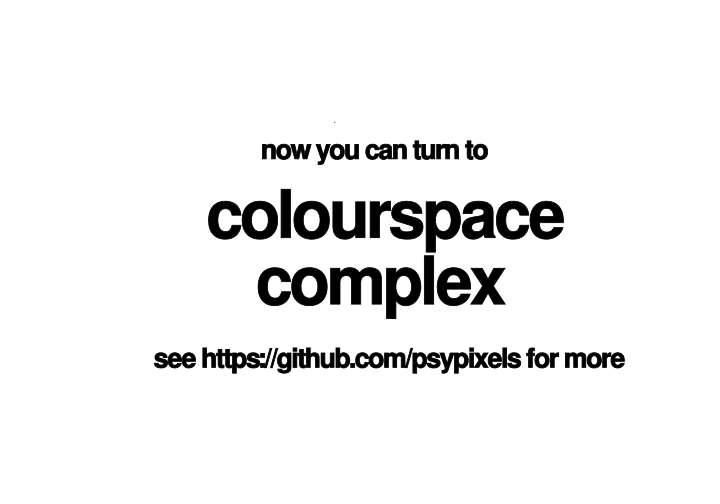
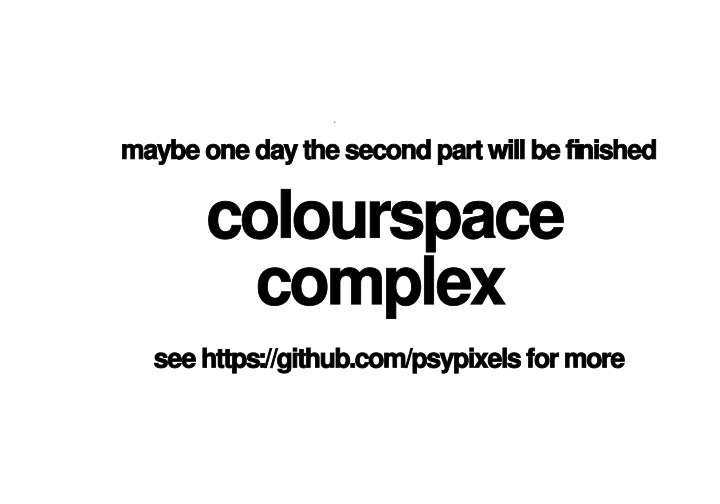
Abandon the last chapter - we're done for now

Changed region(s): [[0.1528, 0.2679, 0.9167, 0.3274]]

diff --git a/src/aftereffects.tex b/src/aftereffects.tex
@@ -286,9 +286,11 @@ This translates into the routine painting the pattern as follows.
   }
 \end{figure}
 
+As before, once the lines is ready to be processed the heavy lifting passes to \icode{PaintPixel\-ForCurrentSymmetry}.
+
 \clearpage
 \textbf{Lines 1189-1231. \icode{\textbf{PaintPixelForCurrentSymmetry}}} 
-\begin{lstlisting}[basicstyle=\ttfamily\scriptsize, caption=The routine responsible for painting patterns.]
+\begin{lstlisting}
 ;--------------------------------------------------------
 ; PaintPixelForCurrentSymmetry
 ;--------------------------------------------------------
@@ -327,22 +329,6 @@ CanPaintPixelOnThisLine
 ReturnFromSymmetry   
         RTS 
 
-\end{lstlisting}
-\clearpage
-
-\rhead[]{\icode{LaunchPsychedelia}}
-\textbf{Lines 1189-1231. \icode{\textbf{LaunchPsychedelia}}:} A nice compact launch routine compared to what we're used to. As an added
-bonus it also contains the game's main loop in \icode{PsychedeliaLoop}! The first thing to note here is that, unlike all the previous
-versions we've looked at, this main loop is also checking keyboard input - something previously managed by the interrupt handler. The
-interrupt handler, as well as animating the background, still looks after joystick input but the reduced set of keyboard commands and
-the increased load on the interrupt handler, means that we can fit the keyboard check in here instead.
-
-\textbf{Lines 1189-1231. \icode{\textbf{MaybeUpdateFromBuffersAndPaint}}:} The business end of the main loop which co-ordinates all pattern
-painting.
-
-\clearpage
-\textbf{Lines 1189-1231. \icode{\textbf{PaintPixelForCurrentSymmetry} continued.}} 
-\begin{lstlisting}[caption = All the pattern data structures in Psychedelia organized into a set of arrays.]
 HasSymmetry   
         CMP #X_Y_SYMMETRY
         BEQ HasXYSymmetry
@@ -354,6 +340,11 @@ HasSymmetry
         SEC 
         SBC initialPixelXPosition
         STA initialPixelXPosition
+
+\end{lstlisting}
+\clearpage
+\textbf{Lines 1189-1231. \icode{\textbf{PaintPixelForCurrentSymmetry} continued.}} 
+\begin{lstlisting}[caption = The routine responsible for handling the symmetry in use for painting pixels.]
 
         JSR PaintPixel
 
@@ -390,11 +381,15 @@ HasXAxisSymmetry
         STA initialPixelXPosition
         JMP HasXYSymmetry
 \end{lstlisting}
+
+\rhead[]{\icode{PaintPixelForCurrentSymmetry}}
+\textbf{Lines 1189-1231. \icode{\textbf{PaintPixelForCurrentSymmetry}}:} This routine feels like an improvement on
+previous iterations. It makes heavy use of 'early returns' (\icode{CleanUpAndReturn}) and the way in which it is
+determining what symmetry is in effect and how to decompose that into the painting of individual pixels is much more
+legible to the reader than in earlier versions of the routine in Psychedelia and the 'listing edition' of Psychedelia.
+
 \clearpage
 
-\rhead[]{\icode{LaunchPsychedelia}}
-\textbf{Lines 1189-1231. \icode{\textbf{LaunchPsychedelia}}:} Psychedelia
-\clearpage
 \textbf{Lines 1189-1231. \icode{\textbf{PaintPixel}}} 
 \begin{lstlisting}[caption = All the pattern data structures in Psychedelia organized into a set of arrays.]
 ;--------------------------------------------------------
@@ -434,14 +429,28 @@ colorComparisonArray
 \end{lstlisting}
 \clearpage
 
-\rhead[]{\icode{LaunchPsychedelia}}
-\textbf{Lines 1189-1231. \icode{\textbf{LaunchPsychedelia}}:} Psychedelia
-\clearpage
+\rhead[]{\icode{PaintPixel}}
+\textbf{Lines 1189-1231. \icode{\textbf{PaintPixel}}:} This is much less cryptic than previous versions of this routine. The first part
+simply figures out if the current location chosen for drawing is the same as the current background color (\icode{currentColorValue}) - if so,
+we paint it.
+
+Otherwise, we check the current color at the chosen location against the \icode{color\-ComparisonArray} using the color value itself as an index.
+If it's greater or equal we paint our new chose color there.
+
+\section*{\string^ \string^ \string^ \string^ \string^ transmission interrupted}
+\vspace{-0.3cm}
+OK I've had enough for now, and let's face it so have you. There's a second part to this book yet to be completed: a similar 'mirror' exploration
+of Jeff Minter's second adventure in light synthesizers: 'Colourspace' for the Atari 800. The dismembered parts of this second volume are available
+to preview by clicking the link below (or by visiting \href{https://github.com/mwenge/psypixels}{\textcolor{blue}{ this book's Github repository}}). 
+
+I hope you've enjoyed this long tour through a very short computer program. Goodbye and thank you for reading!
 
 \vspace*{\fill}
 \begin{figure}[H]
     \centering
+\href{https://github.com/mwenge/psypixels}{
       \includegraphics[width=10cm]{src/cover/title_page_colorspace_coming_soon.png}%
+}
 \end{figure}
 
 \vspace*{\fill}

diff --git a/src/book.tex b/src/book.tex
@@ -503,21 +503,21 @@ boxsep=0pt,left=2pt,right=2pt,top=2pt,bottom=.5pt}
 \tableofcontents 
 
 \subfile{src/preface} %draft
-\subfile{src/listing} % draft
-\subfile{src/listing_pattern} % draft
-\subfile{src/listing_commentary} % draft
-\subfile{src/fullgame_listing} % draft
-\subfile{src/patterns} % draft
-\subfile{src/symmetries} % draft
-\subfile{src/bursts} % draft
-\subfile{src/sequencer} % draft
-\subfile{src/presets} % draft
-%chapter dials and knobs
-  \subfile{src/delay} % draft
-  \subfile{src/tracking} % draft
-  \subfile{src/pulsespeed} % draft
-%  \subfile{src/pulsewidth} % draft
-  \subfile{src/linewidth} % draft
+%\subfile{src/listing} % draft
+%\subfile{src/listing_pattern} % draft
+%\subfile{src/listing_commentary} % draft
+%\subfile{src/fullgame_listing} % draft
+%\subfile{src/patterns} % draft
+%\subfile{src/symmetries} % draft
+%\subfile{src/bursts} % draft
+%\subfile{src/sequencer} % draft
+%\subfile{src/presets} % draft
+%%chapter dials and knobs
+%  \subfile{src/delay} % draft
+%  \subfile{src/tracking} % draft
+%  \subfile{src/pulsespeed} % draft
+%%  \subfile{src/pulsewidth} % draft
+%  \subfile{src/linewidth} % draft
 \subfile{src/aftereffects} % draft
 
 %\appendix
